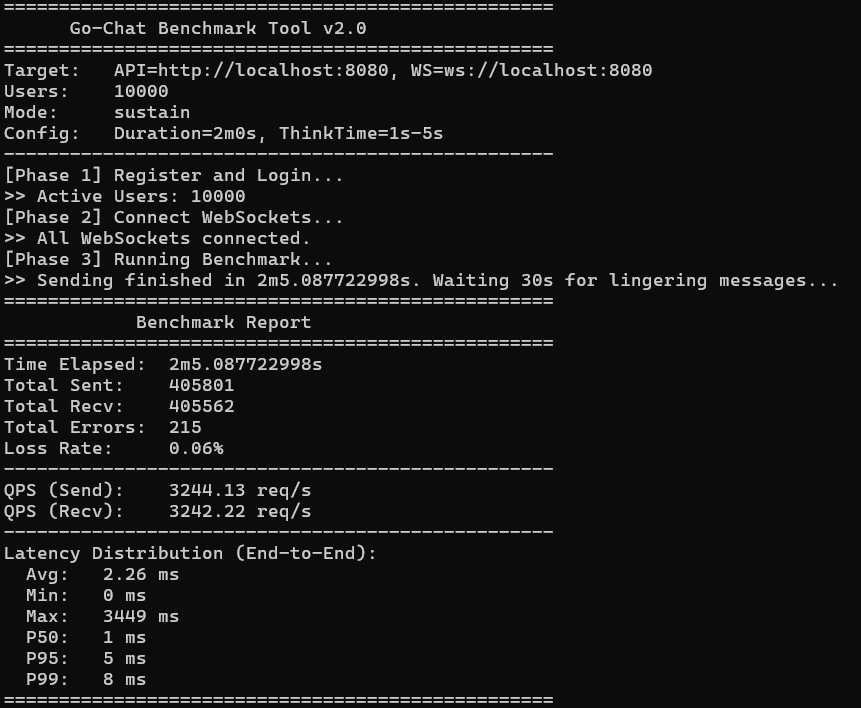
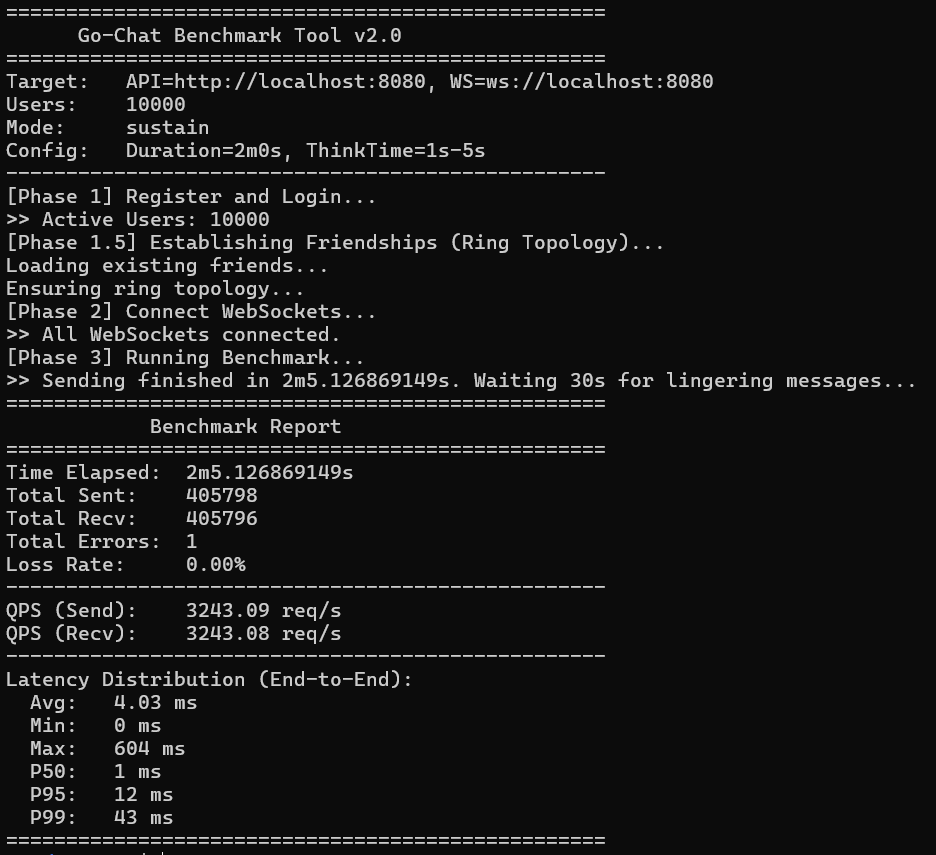
.

Changed region(s): [[0.0, 0.0, 0.9361, 0.9944], [0.5738, 0.2797, 0.6643, 0.3107]]

diff --git a/README.md b/README.md
@@ -27,7 +27,7 @@
 
 ![Sustain Mode](pic/sustain10k2m.png)
 *   **QPS**: ~3,200+
-*   **P99 Latency**: **8ms** (日常运行极致丝滑)
+*   **P99 Latency**: **43ms** (日常运行极致丝滑)
 
 ---
 
